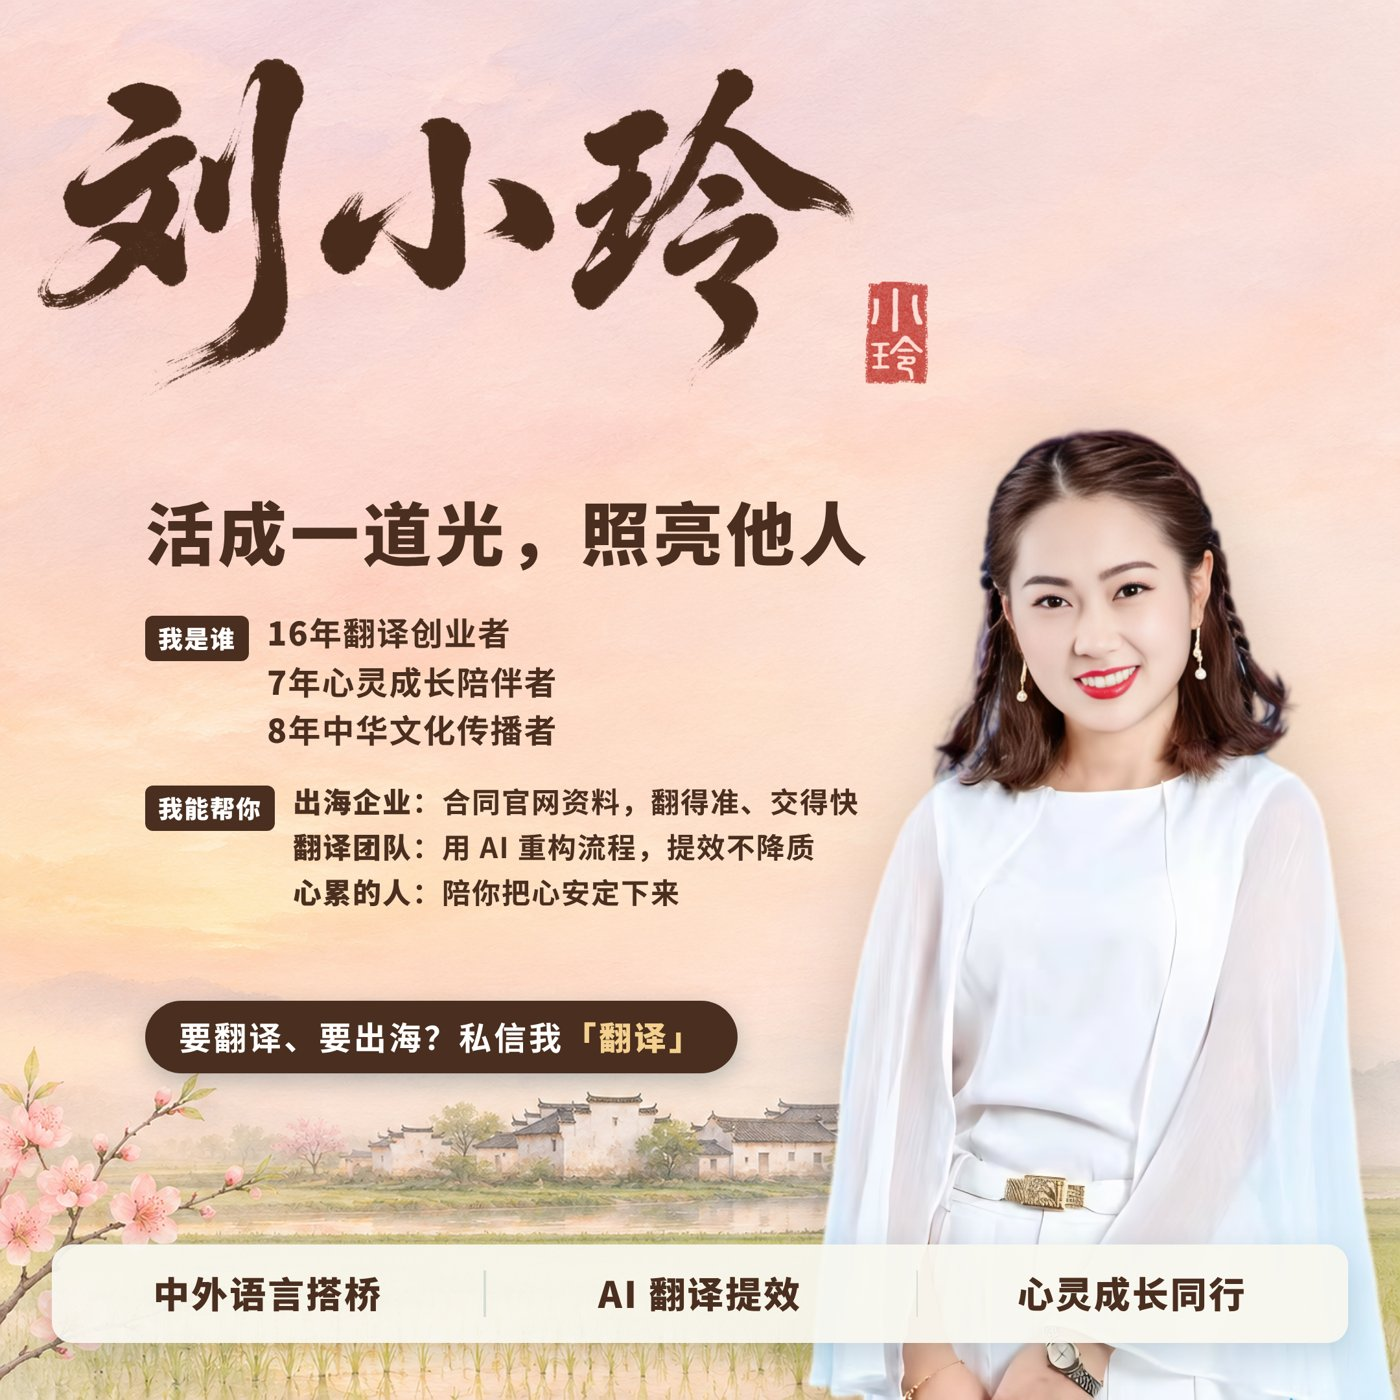
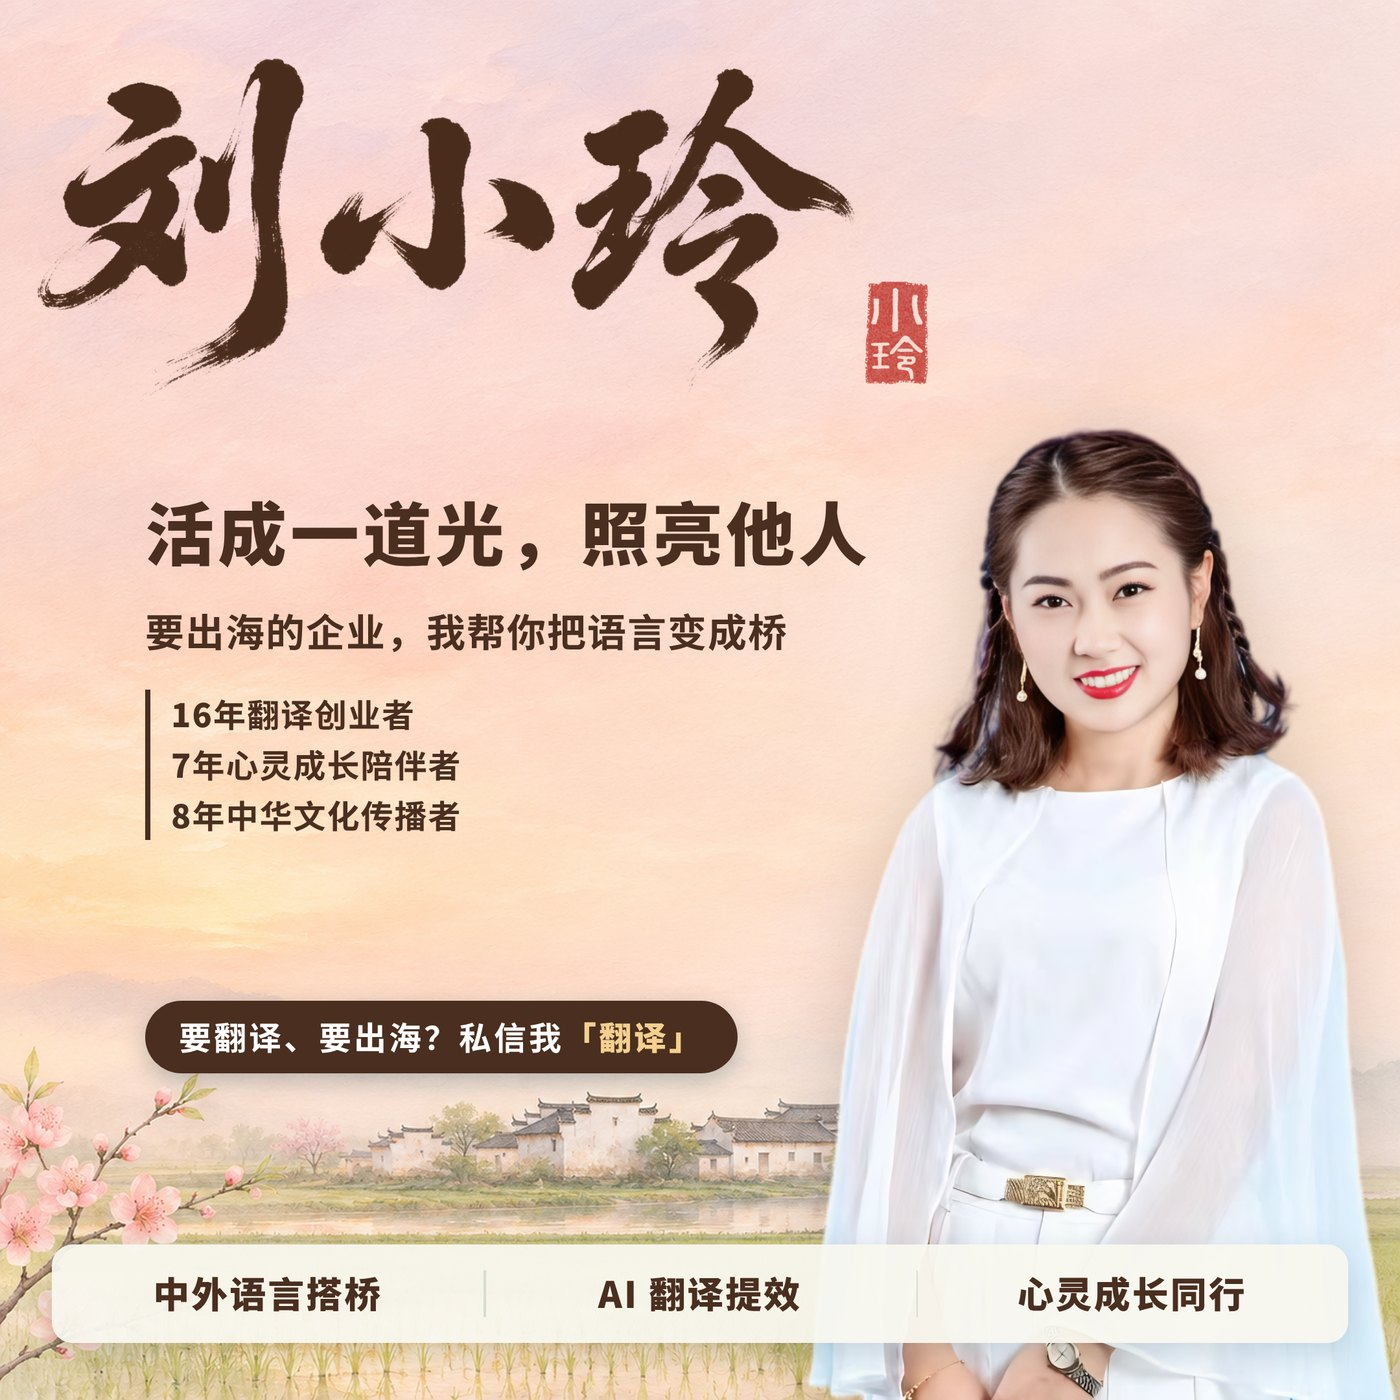
刘小玲主页：朋友圈封面换成 v8（书4新背景，一句大字说清能帮谁）
Claude-Session: https://claude.ai/code/session_01BfepyEuVnoizspNoj59EC3

Changed region(s): [[0.0921, 0.43, 0.6143, 0.645]]

diff --git a/liuxiaoling/index.html b/liuxiaoling/index.html
@@ -290,7 +290,7 @@
       <a class="it rv" href="poster.jpg?v=1" data-lb="poster.jpg?v=1"><span class="th p916"><img src="poster.jpg?v=1" alt="刘小玲的自我介绍海报" loading="lazy"></span><b>自我介绍海报</b><small>如果你是 → 我能帮你</small></a>
       <a class="it rv" href="card.jpg?v=1" data-lb="card.jpg?v=1"><span class="th p916"><img src="card.jpg?v=1" alt="刘小玲的人生卡" loading="lazy"></span><b>人生卡</b><small>今天遇见谁 · 书 4</small></a>
       <a class="it rv" href="ebook-cn.pdf?v=1" target="_blank" rel="noopener"><span class="th p34"><img src="ebook.jpg?v=1" alt="刘小玲电子书《以母为灯，次第笃行》封面" loading="lazy"></span><b>电子书</b><small>以母为灯 · PDF 7 页</small></a>
-      <a class="it rv" href="cover.jpg?v=1" data-lb="cover.jpg?v=1"><span class="th p11"><img src="cover.jpg?v=1" alt="刘小玲的朋友圈封面" loading="lazy"></span><b>朋友圈封面</b><small>活成一道光，照亮他人</small></a>
+      <a class="it rv" href="cover.jpg?v=2" data-lb="cover.jpg?v=2"><span class="th p11"><img src="cover.jpg?v=2" alt="刘小玲的朋友圈封面" loading="lazy"></span><b>朋友圈封面</b><small>活成一道光，照亮他人</small></a>
       <a class="it rv" href="story.mp4?v=1" data-video="story"><span class="th p916" style="aspect-ratio:9/16"><img src="story-t.jpg?v=1" alt="刘小玲人生故事短片封面" loading="lazy"></span><b>人生故事短片</b><small>31 秒 · 点开播放</small></a>
 </div>
     <p class="soon-line rv">还在做：能力说明 PDF · 播客。做好一样，放上来一样。</p>
